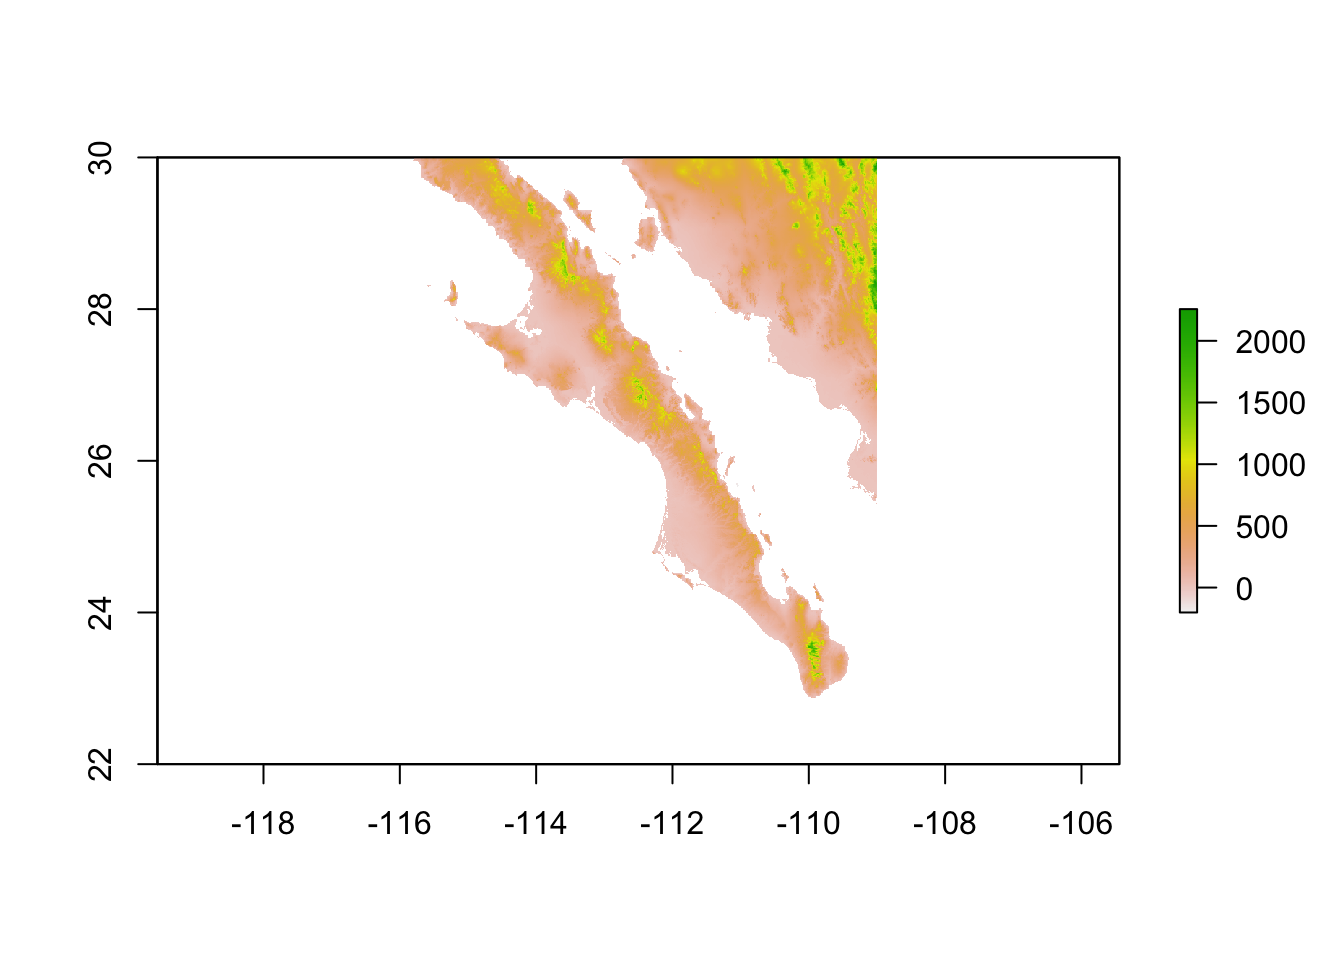
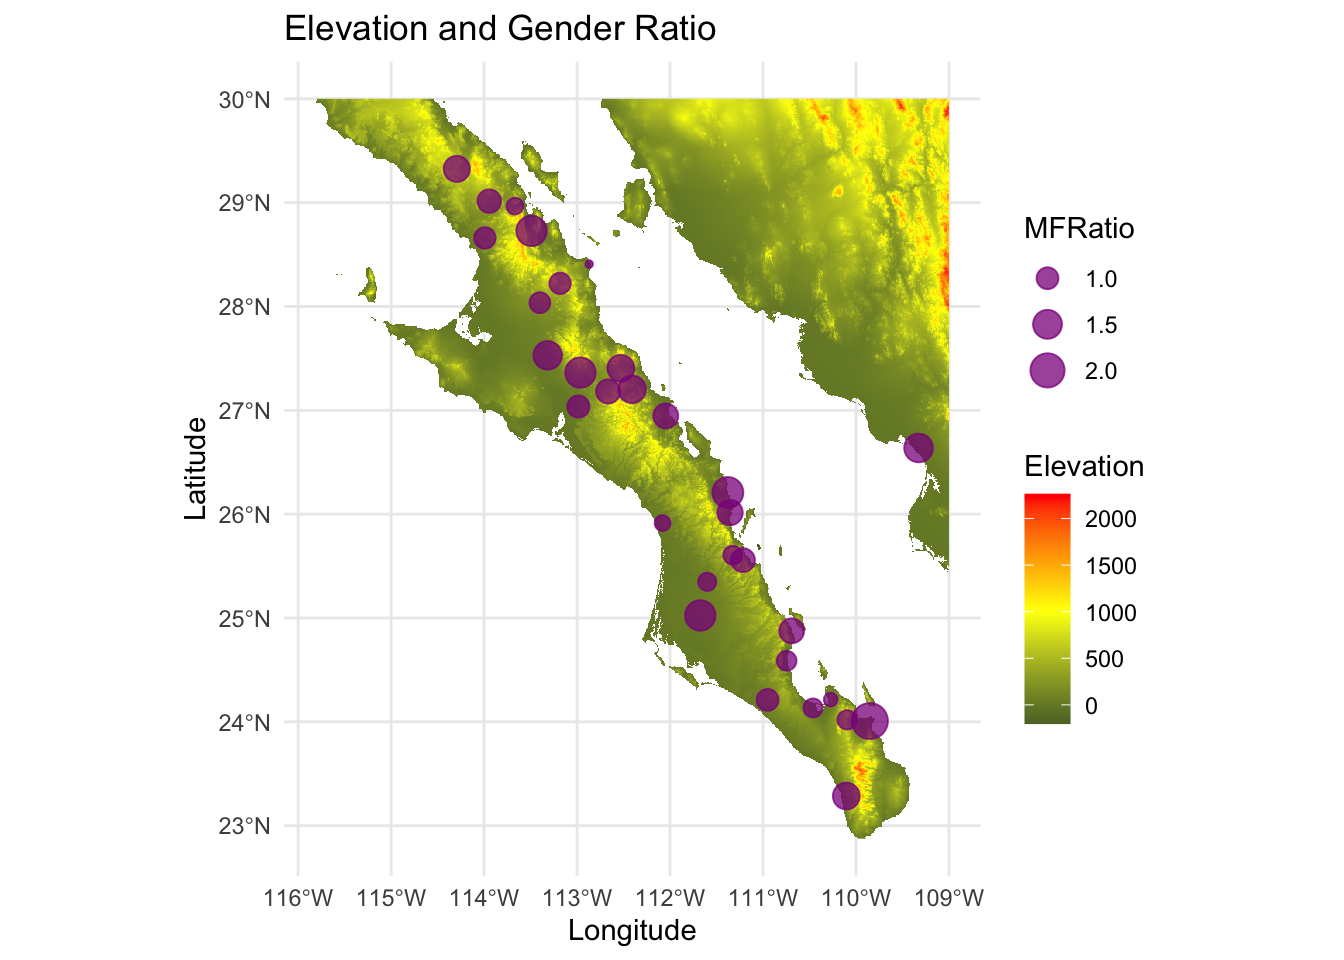
rasterHW complete

diff --git a/docs/rasterHW.html b/docs/rasterHW.html
@@ -69,40 +69,7 @@ ul.task-list li input[type="checkbox"] {
 </header>
 
 
-<div class="cell">
-<div class="cell-output cell-output-stderr">
-<pre><code>── Attaching core tidyverse packages ──────────────────────── tidyverse 2.0.0 ──
-✔ dplyr     1.1.4     ✔ readr     2.1.5
-✔ forcats   1.0.0     ✔ stringr   1.5.1
-✔ ggplot2   3.5.1     ✔ tibble    3.2.1
-✔ lubridate 1.9.3     ✔ tidyr     1.3.1
-✔ purrr     1.0.2     
-── Conflicts ────────────────────────────────────────── tidyverse_conflicts() ──
-✖ dplyr::filter() masks stats::filter()
-✖ dplyr::lag()    masks stats::lag()
-ℹ Use the conflicted package (&lt;http://conflicted.r-lib.org/&gt;) to force all conflicts to become errors
-Loading required package: sp
-
-
-Attaching package: 'raster'
-
-
-The following object is masked from 'package:dplyr':
-
-    select
-
-
-Linking to GEOS 3.11.0, GDAL 3.5.3, PROJ 9.1.0; sf_use_s2() is TRUE
-
-Rows: 31 Columns: 9
-── Column specification ────────────────────────────────────────────────────────
-Delimiter: ","
-chr (1): Site
-dbl (8): Males, Females, Suitability, MFRatio, GenVarArapat, GenVarEuphli, L...
-
-ℹ Use `spec()` to retrieve the full column specification for this data.
-ℹ Specify the column types or set `show_col_types = FALSE` to quiet this message.</code></pre>
-</div>
+<div class="cell" title="elevation and gender map">
 <div class="cell-output-display">
 <div>
 <figure class="figure">
@@ -110,10 +77,51 @@ dbl (8): Males, Females, Suitability, MFRatio, GenVarArapat, GenVarEuphli, L...
 </figure>
 </div>
 </div>
+</div>
+<div class="cell" title="Crop and filter below site 75">
+<div class="cell-output-display">
+<div>
+<figure class="figure">
+<p><img src="rasterHW_files/figure-html/unnamed-chunk-2-1.png" class="img-fluid figure-img" width="672"></p>
+</figure>
+</div>
+</div>
+</div>
+<div class="cell" title="State division Gender ratio Avg">
+<div class="cell-output-display">
+<div>
+<figure class="figure">
+<p><img src="rasterHW_files/figure-html/unnamed-chunk-3-1.png" class="img-fluid figure-img" width="672"></p>
+</figure>
+</div>
+</div>
+</div>
+<div class="cell" title="Elevation to MF ratio">
+<div class="cell-output cell-output-stderr">
+<pre><code>`geom_smooth()` using formula = 'y ~ x'</code></pre>
+</div>
+<div class="cell-output-display">
+<div>
+<figure class="figure">
+<p><img src="rasterHW_files/figure-html/unnamed-chunk-4-1.png" class="img-fluid figure-img" width="672"></p>
+</figure>
+</div>
+</div>
 <div class="cell-output cell-output-stdout">
-<pre><code>NULL</code></pre>
+<pre><code>
+    Pearson's product-moment correlation
+
+data:  beetles$MFRatio and beetles$elevation
+t = -0.55949, df = 29, p-value = 0.5801
+alternative hypothesis: true correlation is not equal to 0
+95 percent confidence interval:
+ -0.4415112  0.2605426
+sample estimates:
+       cor 
+-0.1033377 </code></pre>
 </div>
 </div>
+<p>Based on the results of the Pearson correlation test, there is <strong>no significant linear relationship</strong> between the sex ratio (<code>MFRatio</code>) and elevation (r = -0.103, p = 0.580). The weak correlation and non-significant p-value suggest that changes in elevation do not appear to be associated with changes in the sex ratio of beetles in this sample.</p>
 
 </main>
 <!-- /main column -->
